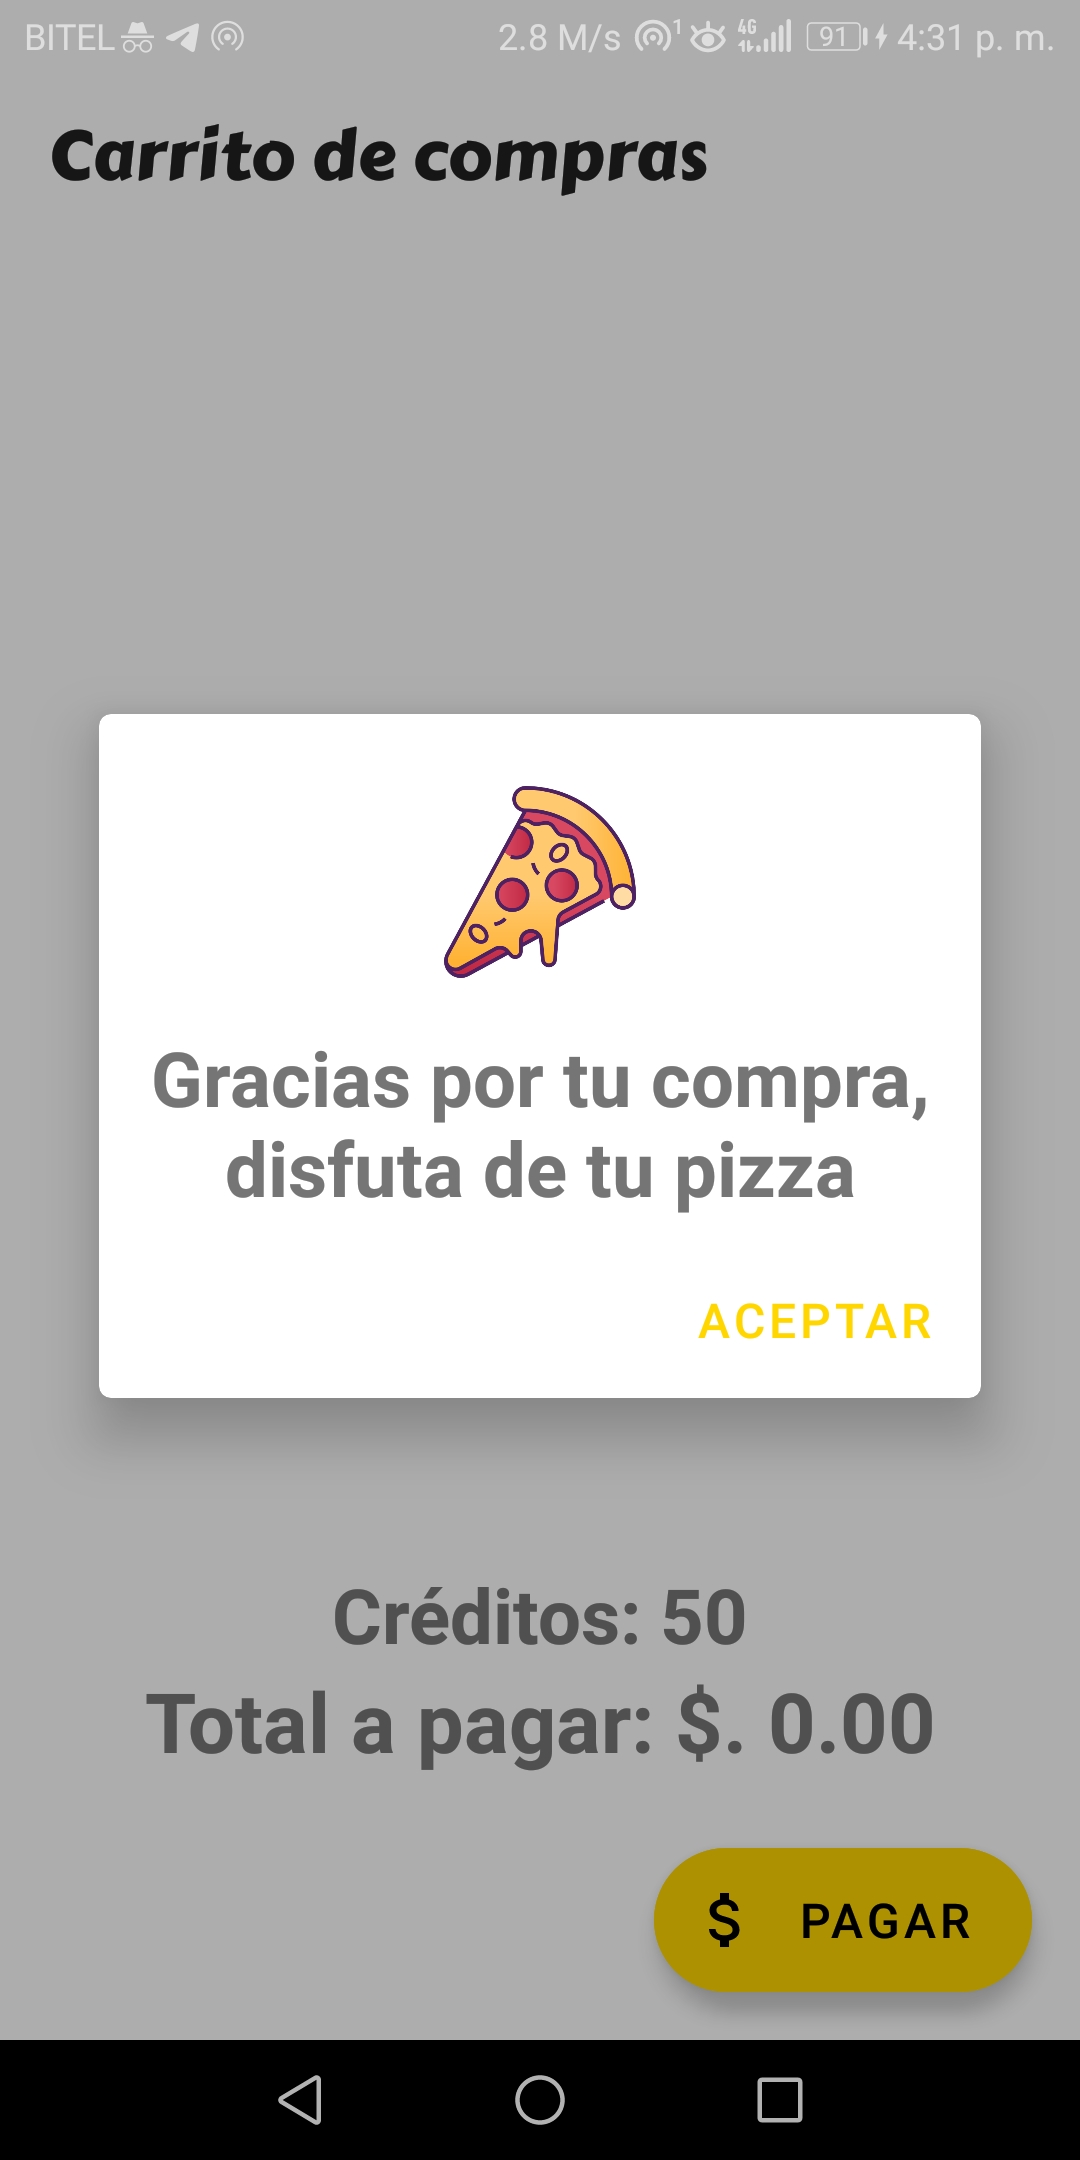
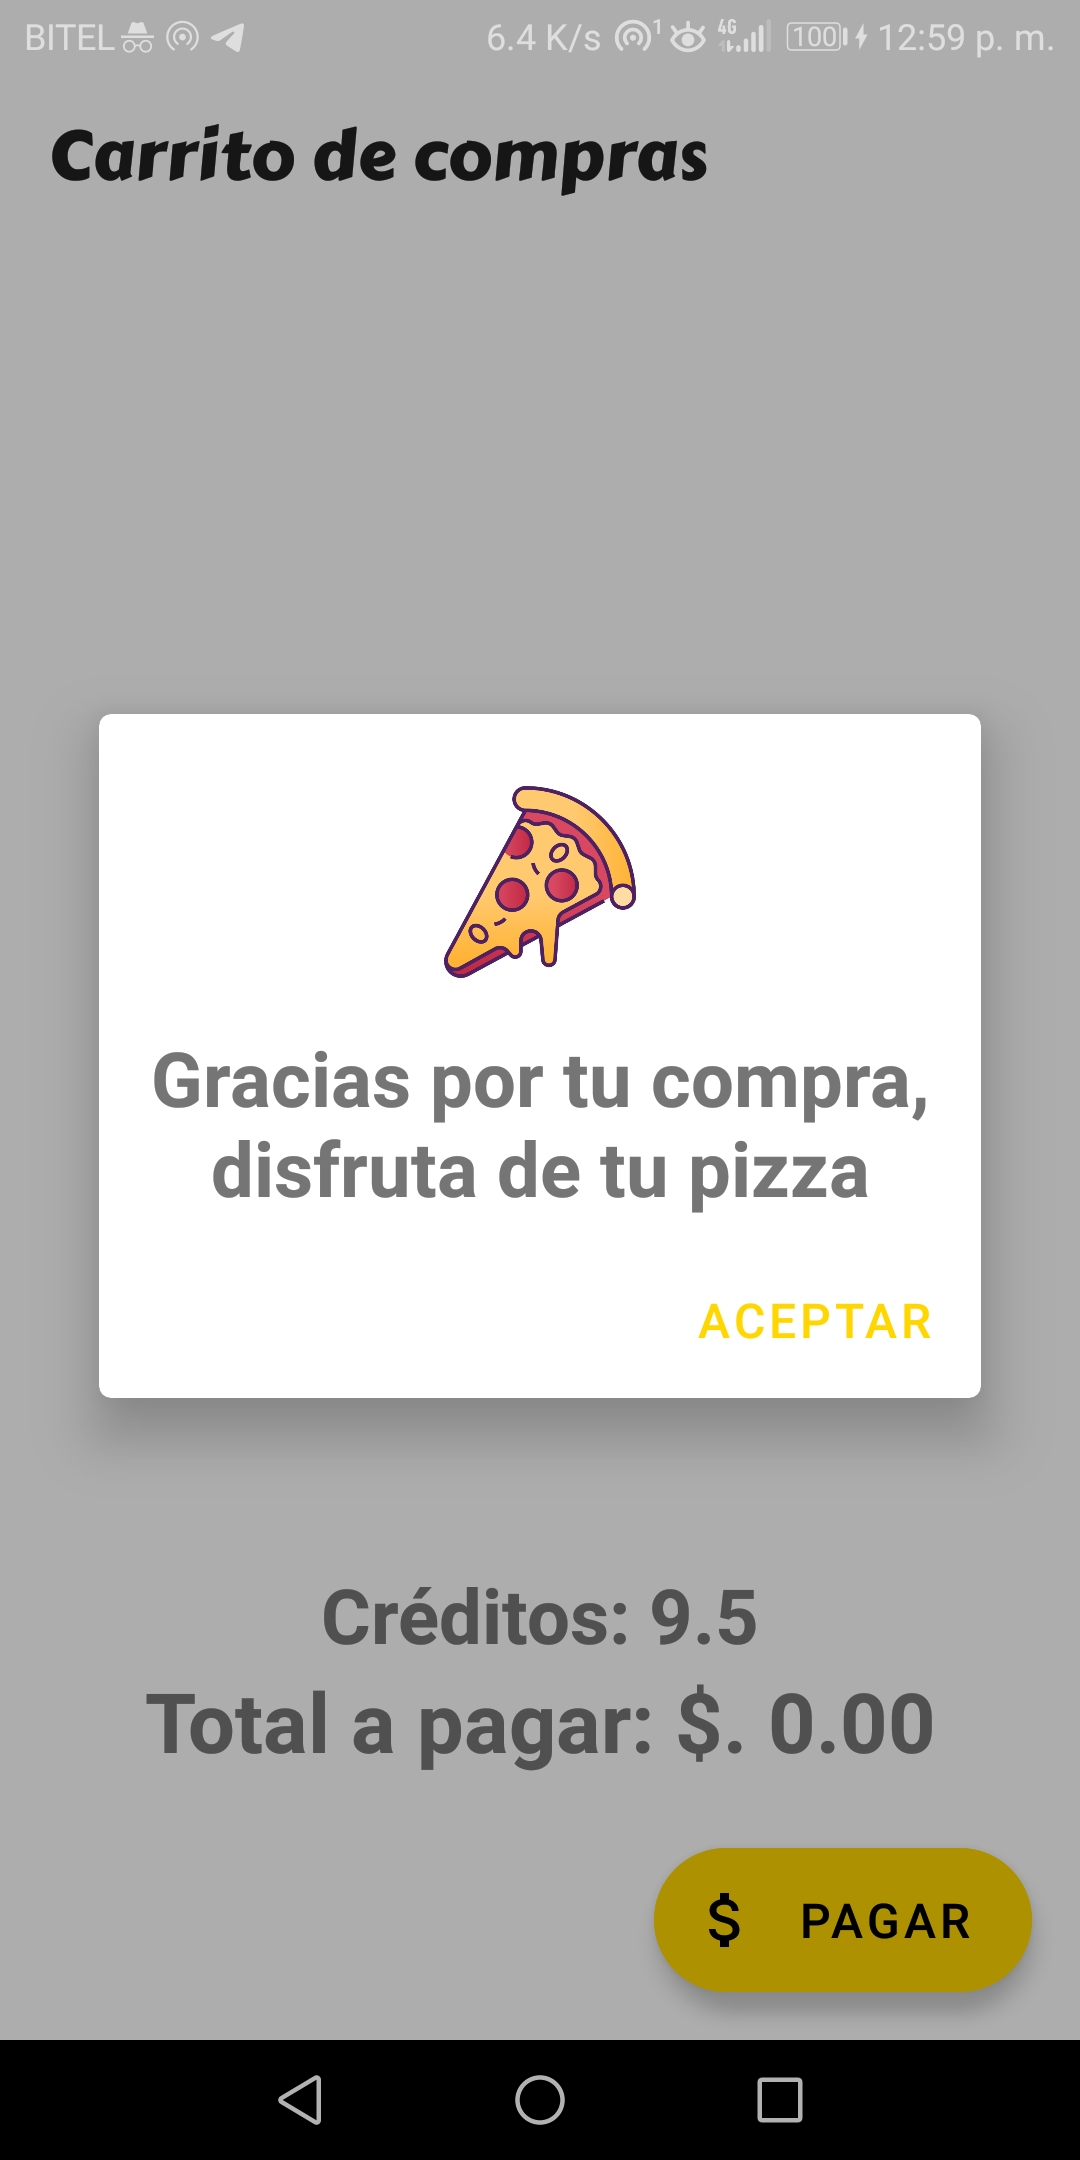
fixed msg dialog compra, restar créditos, tema oscuro modificado

diff --git a/app/src/main/java/com/barryzea/pizzabuy/view/ShoppingCartActivity.kt b/app/src/main/java/com/barryzea/pizzabuy/view/ShoppingCartActivity.kt
@@ -122,7 +122,7 @@ class ShoppingCartActivity : AppCompatActivity() {
     }
     private fun clearViews(){
         adapter.removeAll()
-        bind.tvCredits.text=String.format("Créditos: %s",50)
+        bind.tvCredits.text=String.format("Créditos: %s",beginCredits-totalPayment)
         bind.tvTotal.text=String.format("Total a pagar: $. %.2f",0.0)
         carIsEmpty=true
     }
